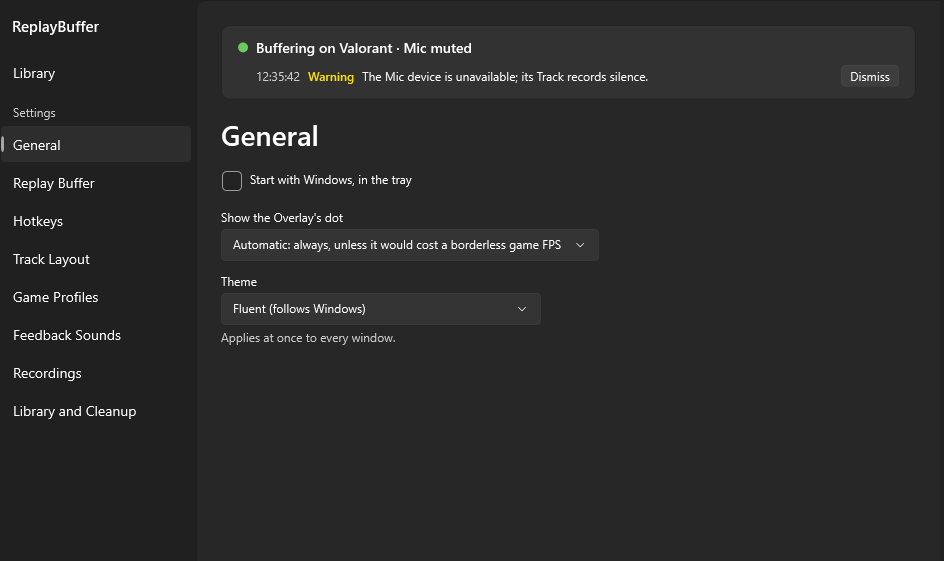
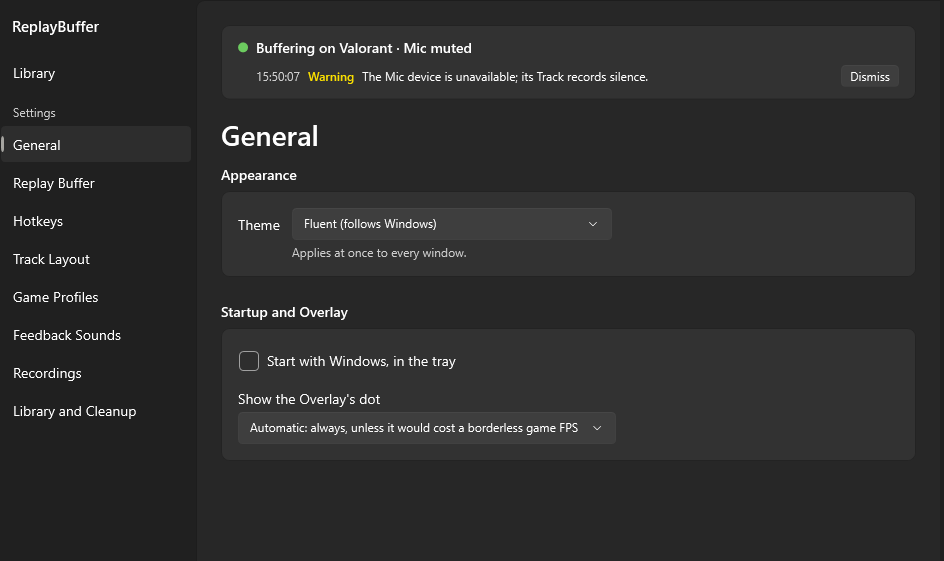
docs(bmad): mark 9.8 done and refresh the shell renders
Refs: 9.8

diff --git a/_bmad-output/initiative-replay-buffer/automation-state.md b/_bmad-output/initiative-replay-buffer/automation-state.md
@@ -179,7 +179,7 @@ The coordinator logs each QA round in the Log below.
 | 30.5 | 9.5 Settings pages: General, Replay Buffer, Recordings, Hotkeys and Feedback Sounds | slice-epic-4 pool worker (local_bddcb996-00d5-440b-abab-994cff2c6899) | done (merged `80f3933`) |
 | 30.6 | 9.6 Settings pages: Track Layout, Game Profiles, and Library and Cleanup | 2-1-tracer pool worker (local_9c35886e-1667-4c7b-996a-23e8da89130b) | done (merged `78d1c6a`) |
 | 30.7 | 9.7 Tray menu, dialogs and Overlay messages | slice-epic-4 pool worker (local_bddcb996-00d5-440b-abab-994cff2c6899) | done (merged `8dbac3d`) |
-| 30.8 | 9.8 Refactor sweep | slice-epic-5 pool worker (local_1d2ad9da-a155-47ef-9312-64143e709751) | QA passed, merging |
+| 30.8 | 9.8 Refactor sweep | slice-epic-5 pool worker (local_1d2ad9da-a155-47ef-9312-64143e709751) | done (merged `5d43a43`) |
 | 30.9 | 9.9 Modern UI end to end on the builder's PC | | pending |
 | 29.12 | Release epic 8 (`v0.8.0`) | | pending |
 
@@ -771,3 +771,4 @@ Choices sessions made without the builder. Each row: date, ticket, decision, why
 - 2026-11-04: 9.6 merged (`78d1c6a`; marked done, PNGs and its Human Check row in `999e6ed`, queue row in `2700189`), and its card is Done. 9.8 (the epic 9 refactor sweep) went to slice-epic-5 (Opus, medium effort; forward hooks kept; renders compared for any visible difference), with its card In progress.
 - 2026-11-04: 9.8 READY FOR QA at `be7a515` (11 files, +96/-56), and its card is In QA. QA went to qa-1-14 (Sonnet, medium effort; renders compared for any visible difference; forward hooks kept).
 - 2026-11-04: QA 9.8 passed at `be7a515`: App 151 passed; 36 of 38 renders byte-identical (the 2 shell renders differ only by the stale 9.3 General page and the clock); no forward hooks deleted; no Contracts change. slice-epic-5 is merging. qa-1-14 is back in the pool.
+- 2026-11-04: 9.8 merged (`5d43a43`), after syncing develop: 0-warning build, App 170 passed. Marked done; the two stale shell renders were replaced with the current test output, which closes that deferred-work item. The "Library tab" wording item stays open for the builder.

diff --git a/_bmad-output/deferred-work.md b/_bmad-output/deferred-work.md
@@ -162,7 +162,7 @@
 - source_plan: `_bmad-output/initiative-replay-buffer/tickets/epic-modern-ui/tickets/story-refactor-sweep-plan.md`
   summary: The committed `ux-modern-ui/renders/shell-fluent.png` and `shell-gaming-dark.png` (9.3) show the General page before 9.5 restyled it; the tests now render the carded page.
   evidence: Story 9.8's comparison. Develop's tip and the sweep render the same shell (104 px differ, the status clock's seconds only).
-  outcome: Recorded, open (story 9.8). Low. Refresh them from the test output when 9.9 checks the epic, or on the builder's say.
+  outcome: Closed at 9.8's merge: both shell renders were replaced with the tests' current output.
 - source_plan: `_bmad-output/initiative-replay-buffer/tickets/epic-modern-ui/tickets/story-refactor-sweep-plan.md`
   summary: Library and Cleanup's blocked message still says "acknowledged on the Library tab"; the Library is a nav page since 9.3.
   evidence: `LibrarySettingsPage.cs:69`. The epic's Boundaries keep every page's wording, so a sweep doesn't change it.
